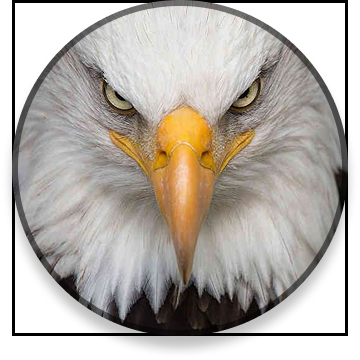
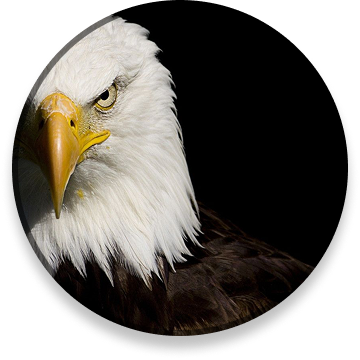
edtion imag

diff --git a/script.js b/script.js
@@ -7,7 +7,7 @@ function toggleMode() {
 
   
  if (html.classList.contains("light")) {
-    img.setAttribute("src","./imagens/avatar-lightg.png")
+    img.setAttribute("src","./imagens/avatar2.png")
  } else {
     img.setAttribute("src", "./imagens/avatar.png")
  }

diff --git a/style.css b/style.css
@@ -152,3 +152,13 @@ footer {
     text-align: center;
     font-size: 14px;
 }
+
+@media (min-width: 700px) {
+    :root {
+        --bg-url: url(./assets/bg-desktop.jpg)
+    }
+
+    .light {
+        --bg-url: url(./assets/bg-desktop-light.jpg)
+    }
+}
